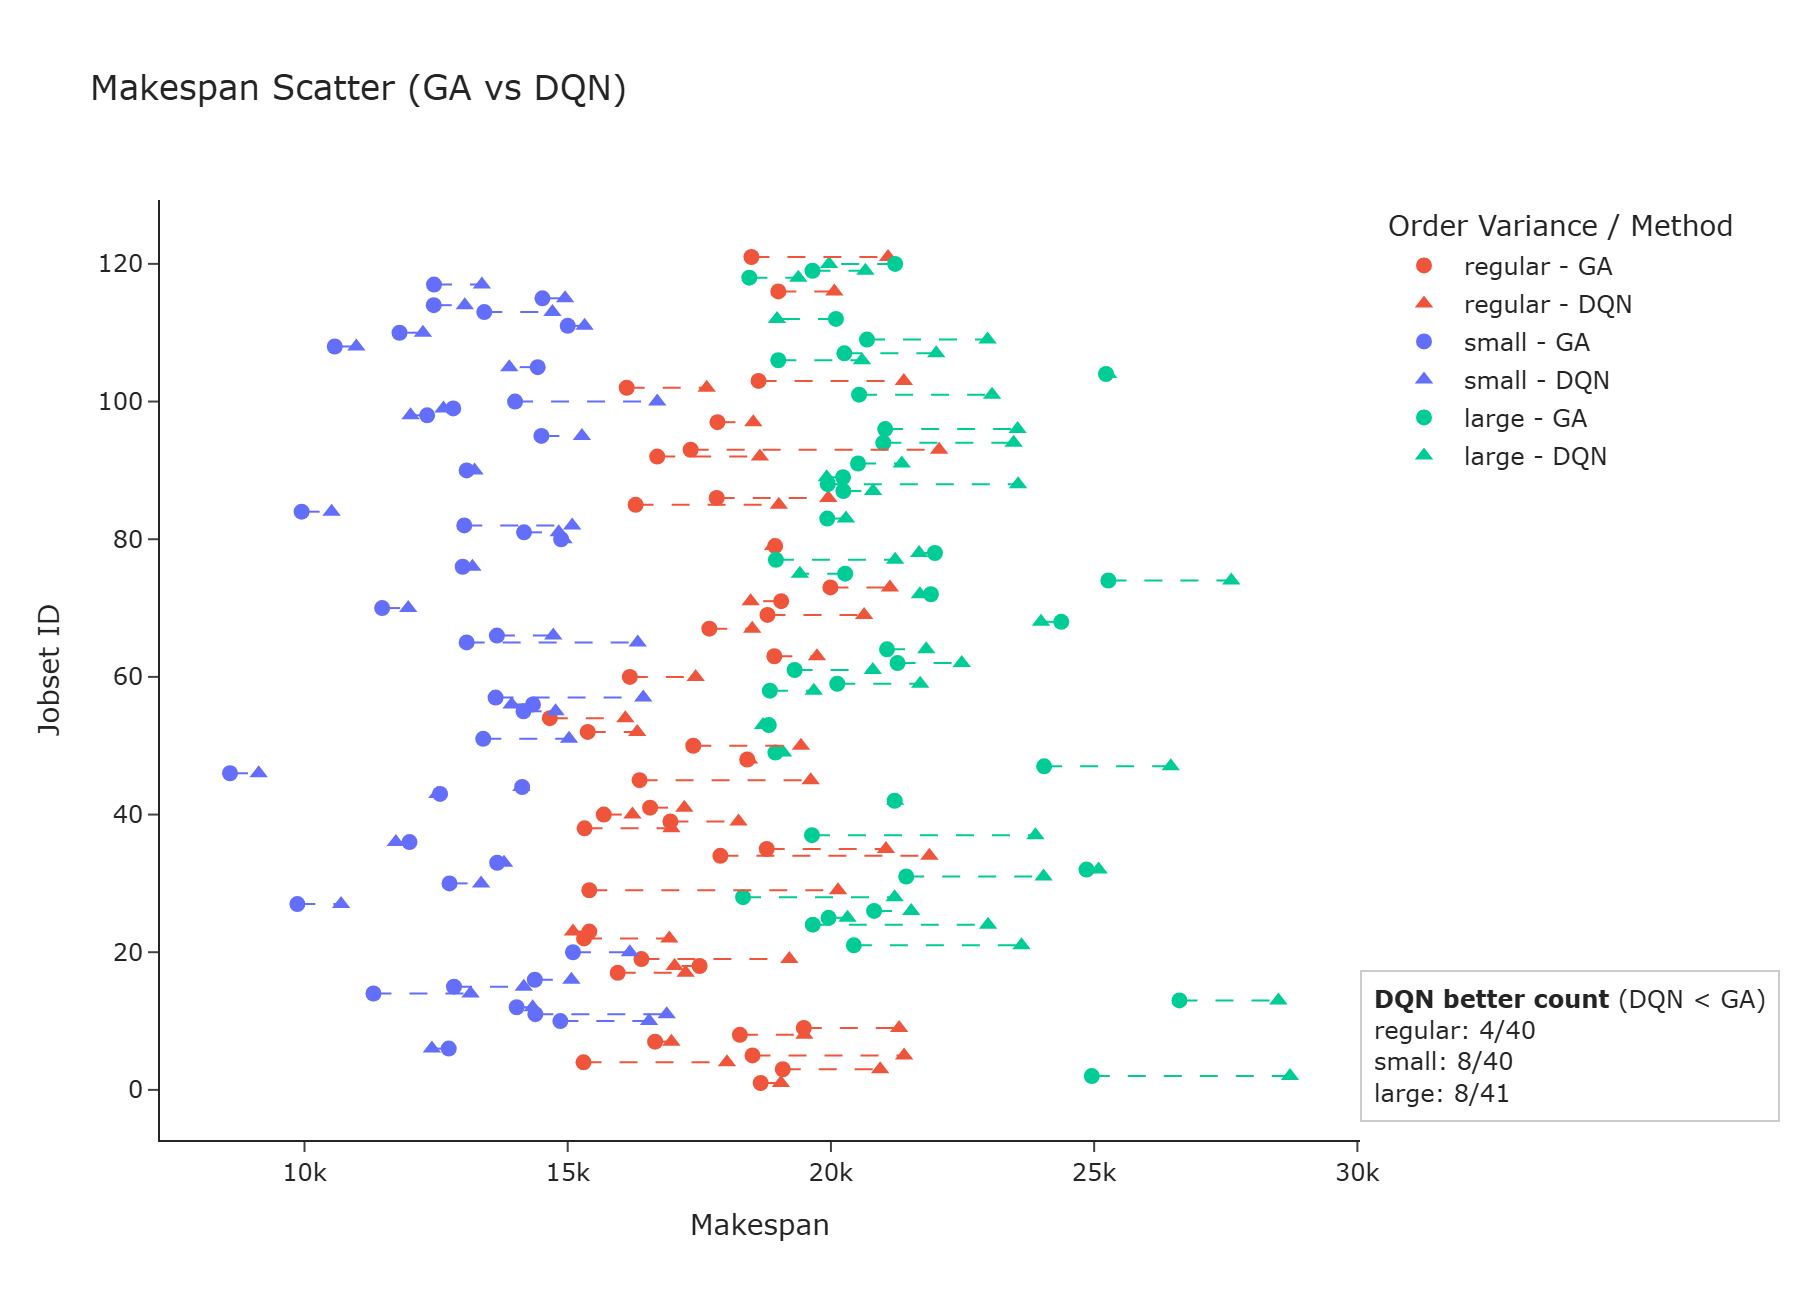
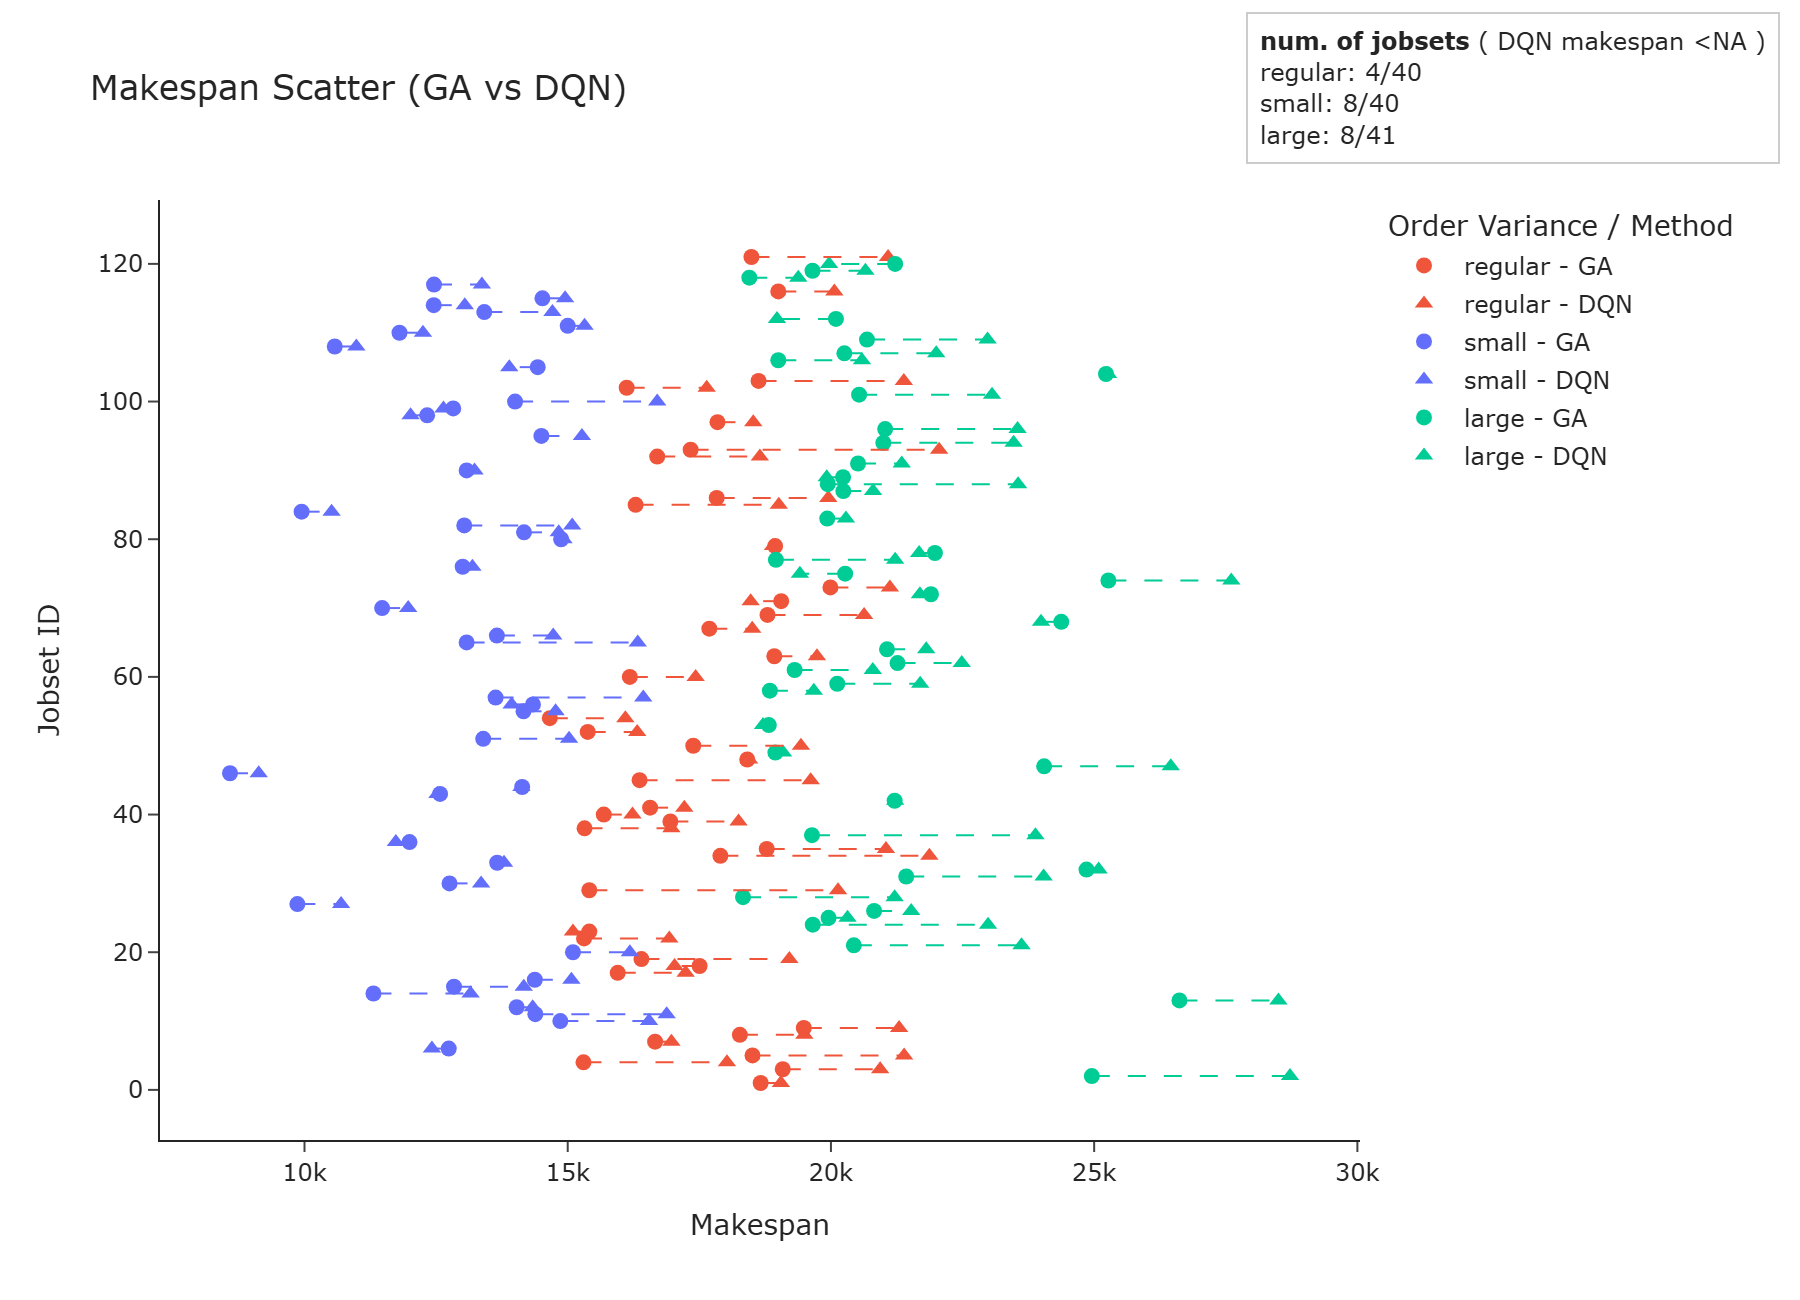
2026/1/5

Changed region(s): [[0.6844, 0.0, 0.9333, 0.1231], [0.7467, 0.7385, 0.9333, 0.8615], [0.9644, 0.7385, 0.9956, 0.7692]]

diff --git a/master/scatter.py b/master/scatter.py
@@ -101,7 +101,7 @@ total_counts = df["order_type"].value_counts()
 # 表示順を固定
 order_list = ["regular", "small", "large"]
 
-lines = ["<b>DQN better count</b> (DQN < GA)"]
+lines = ["<b>num. of jobsets</b> ( DQN makespan <NA )"]
 for t in order_list:
     b = int(counts.get(t, 0))
     n = int(total_counts.get(t, 0))
@@ -110,7 +110,7 @@ for t in order_list:
 stats_text = "<br>".join(lines)
 
 fig.add_annotation(
-    x=1.35, y=0.02,                 # 右側＆下寄せ（凡例の下に来やすい）
+    x=1.35, y=1.2,                 # 右側＆下寄せ（凡例の下に来やすい）
     xref="paper", yref="paper",
     text=stats_text,
     showarrow=False,
